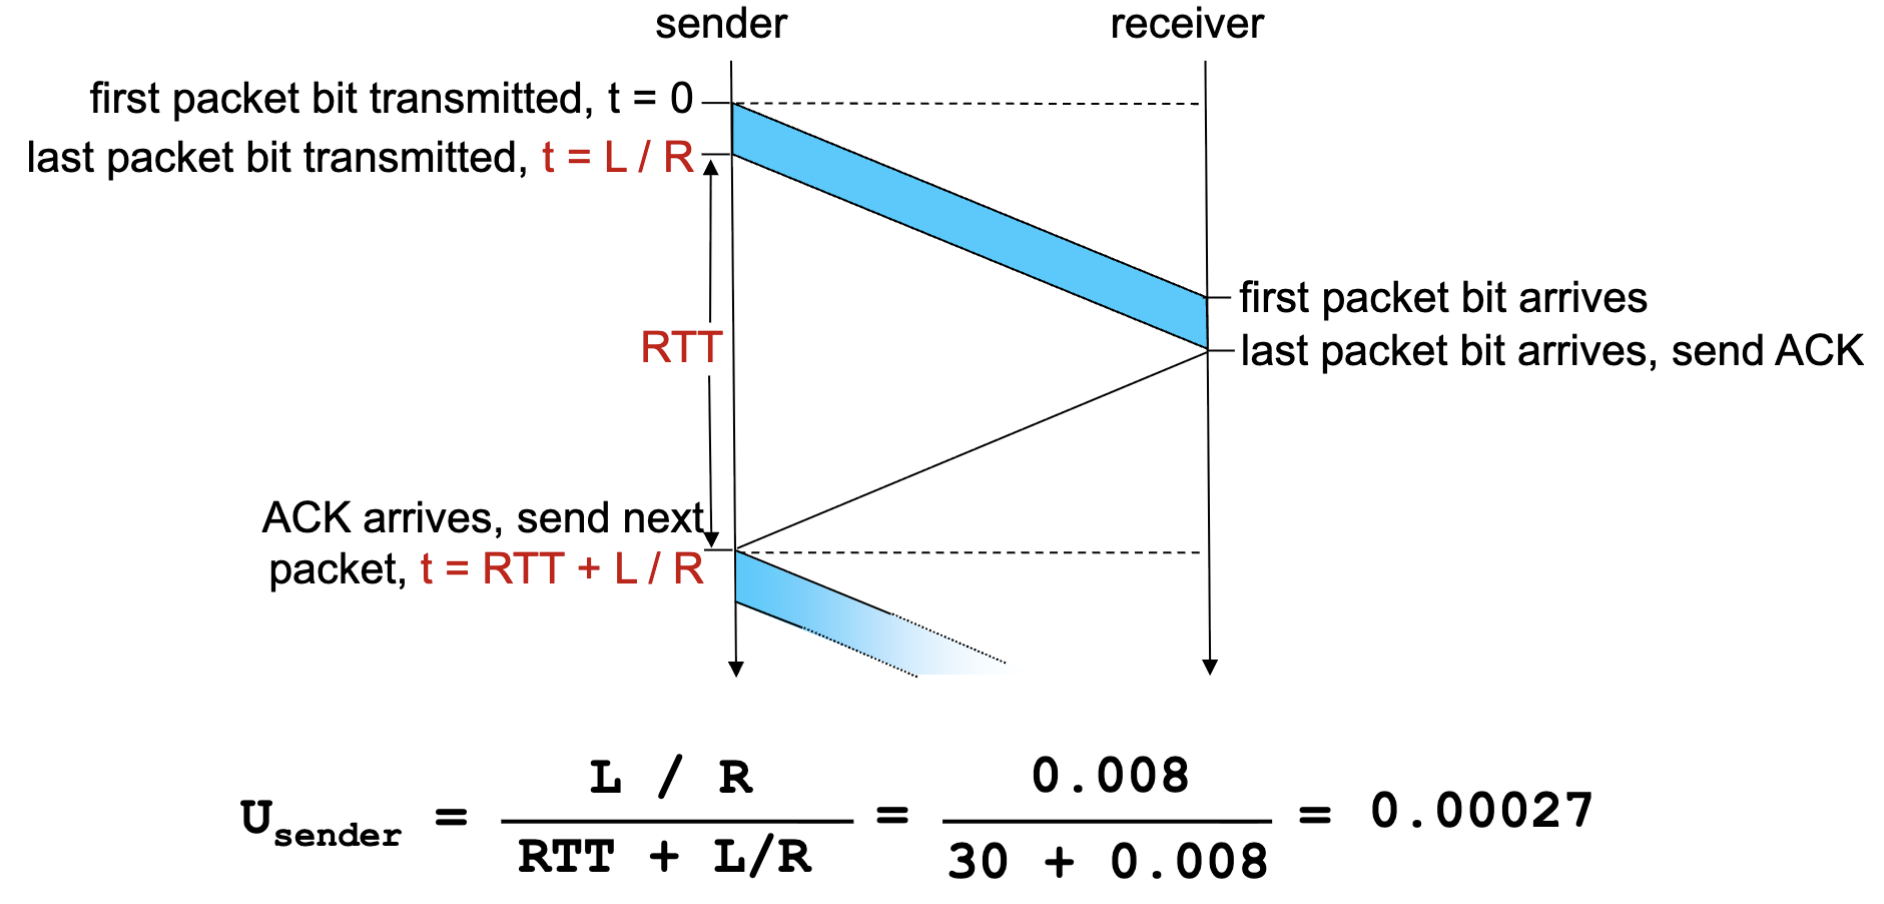
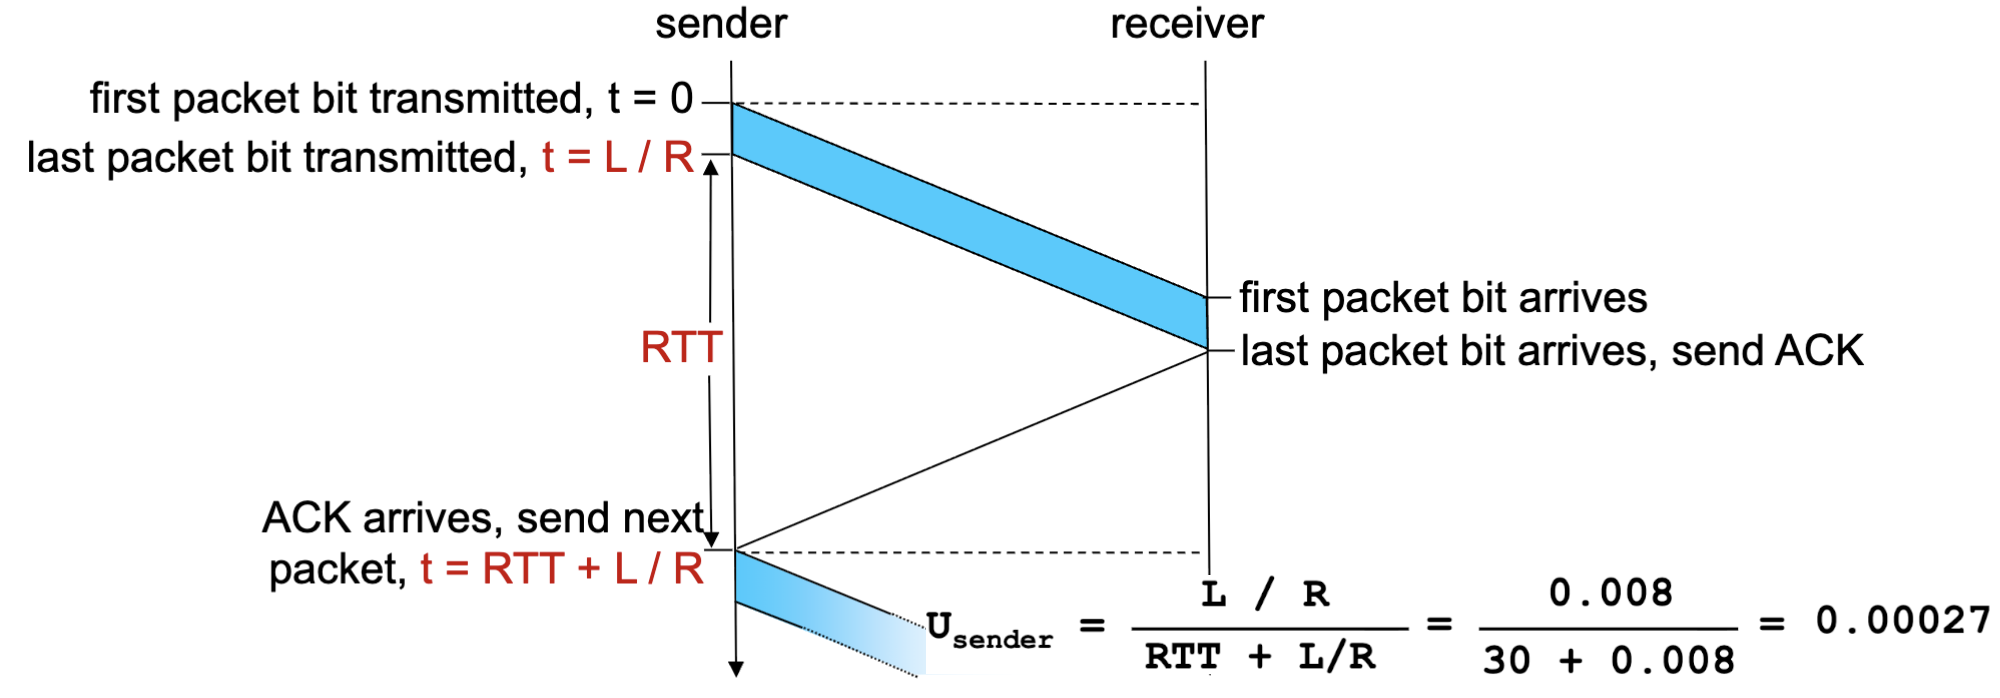
make stop-wait image bigger

diff --git a/main.tex b/main.tex
@@ -619,7 +619,7 @@ Network layer has unreliable communication. Needs a reliable transport layer pro
 
 \textit{Low utilisation; ignore ACK transmission and processing time.}
 \begin{compactfigure}
-\includegraphics[width=0.75\linewidth]{transport/stop-wait.png}
+\includegraphics[width=0.95\linewidth]{transport/stop-wait.png}
 \end{compactfigure}
 
 \subsection{Pipelined Protocols}
